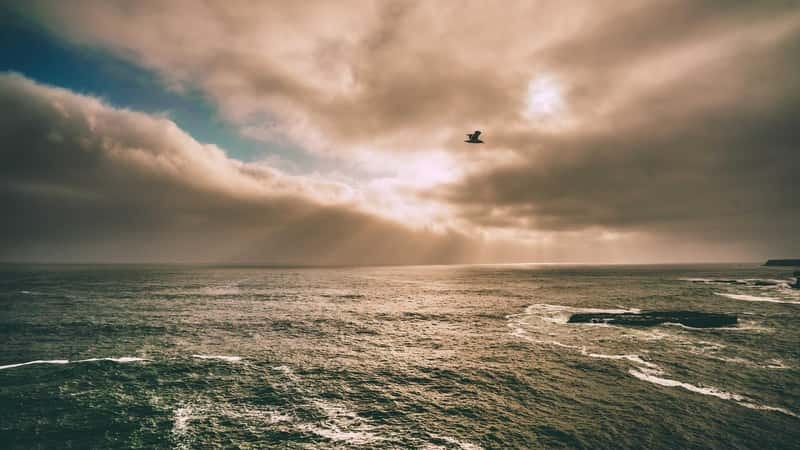
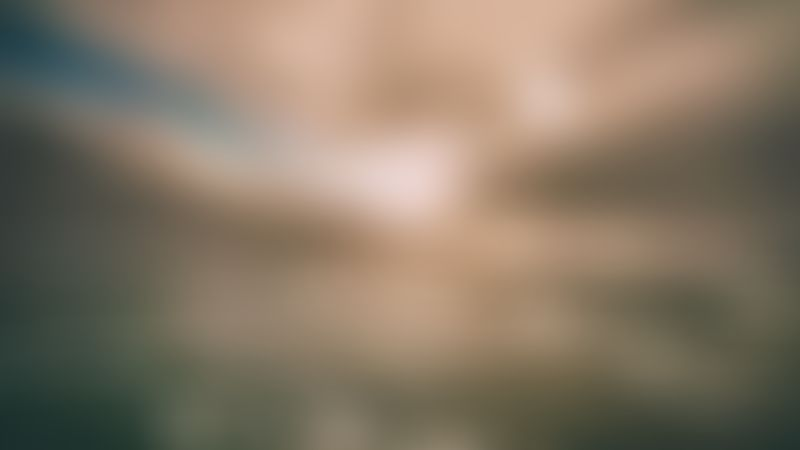
perf: permanently blur background image directly and remove dynamic CSS blur

diff --git a/css/layout.css b/css/layout.css
@@ -791,7 +791,7 @@ ul { list-style: none; }
 
 /* Trip Card */
 .trip-card {
-    background: linear-gradient(var(--bg-card), var(--bg-card)), url('../assets/vibrant-bg-blurred.jpg') fixed center center / cover;
+    background: var(--bg-card);
     box-shadow: 0 4px 15px rgba(0,0,0,0.03);
     border: 1px solid var(--glass-border);
     border-radius: var(--radius-xl);

diff --git a/css/base.css b/css/base.css
@@ -28,7 +28,6 @@ body::before {
     top: -5%; left: -5%; right: -5%; bottom: -5%;
     background: url('../assets/vibrant-bg.jpg') no-repeat center center;
     background-size: cover;
-    filter: blur(25px) brightness(1.1);
     z-index: -2;
 }
 
